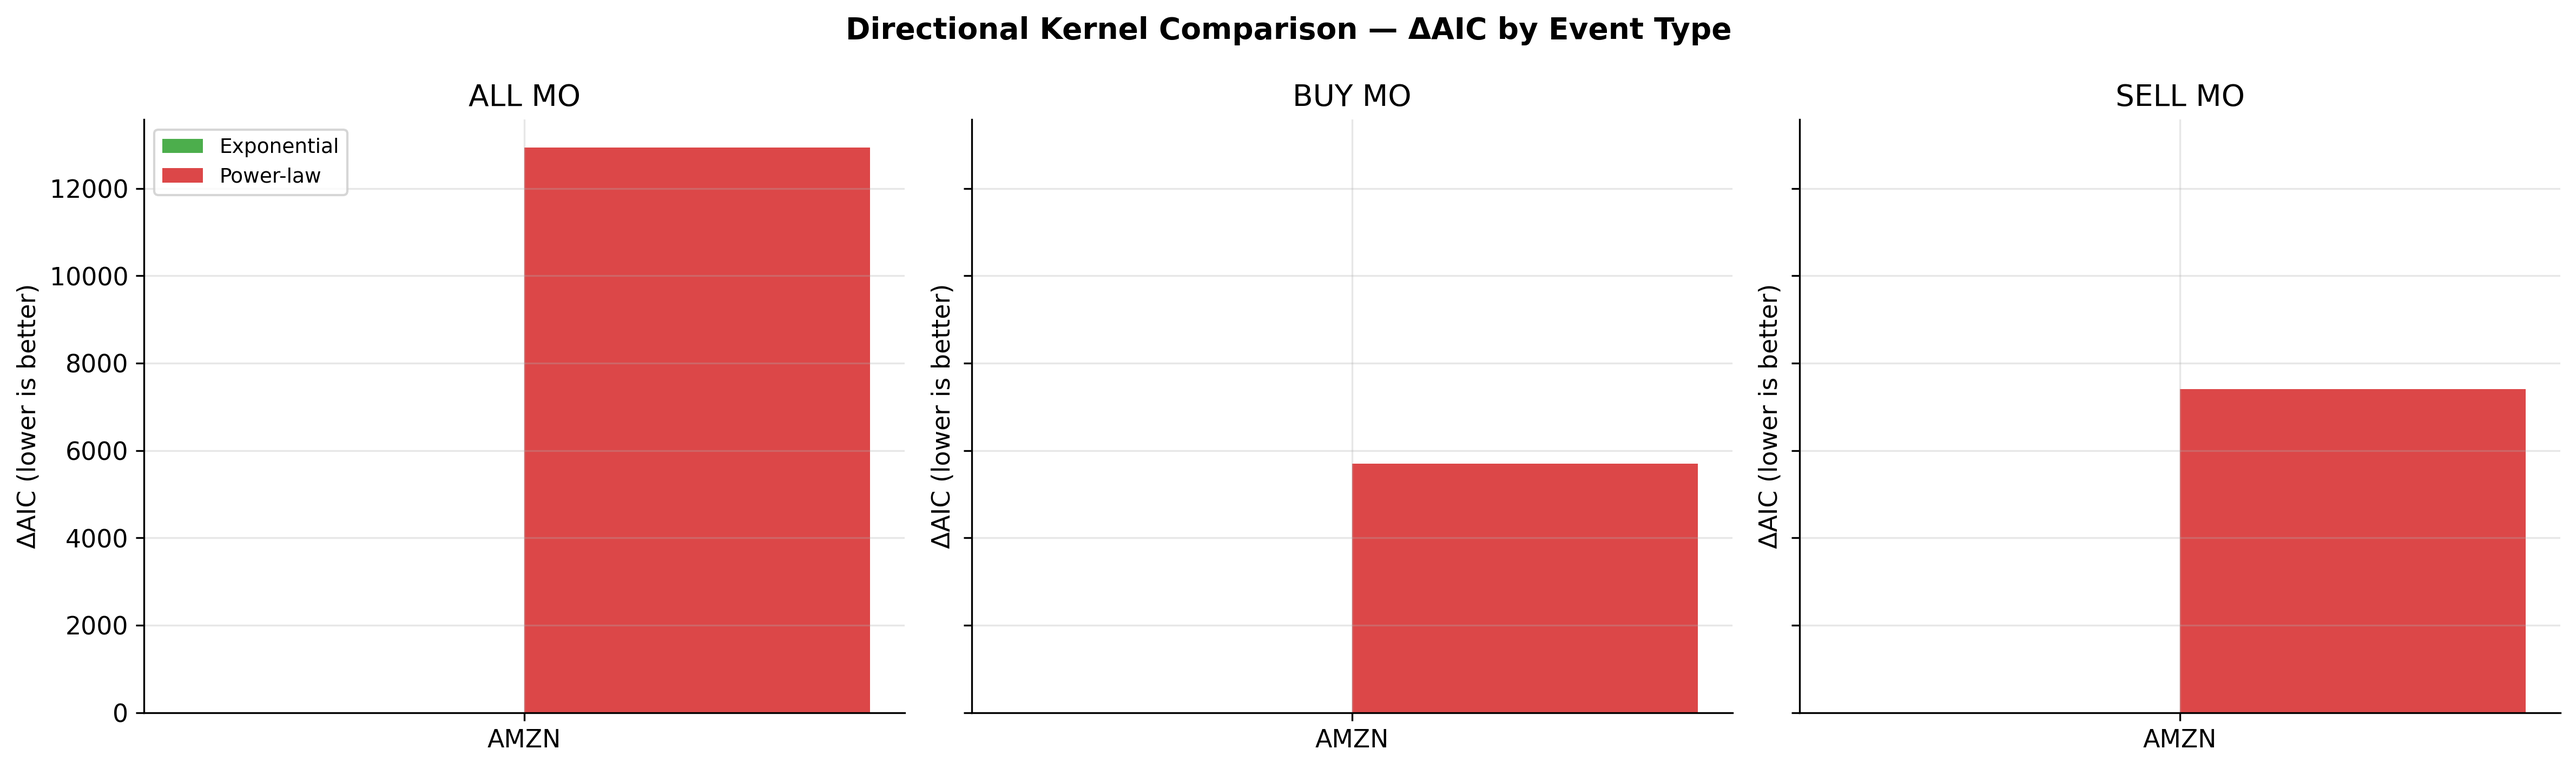
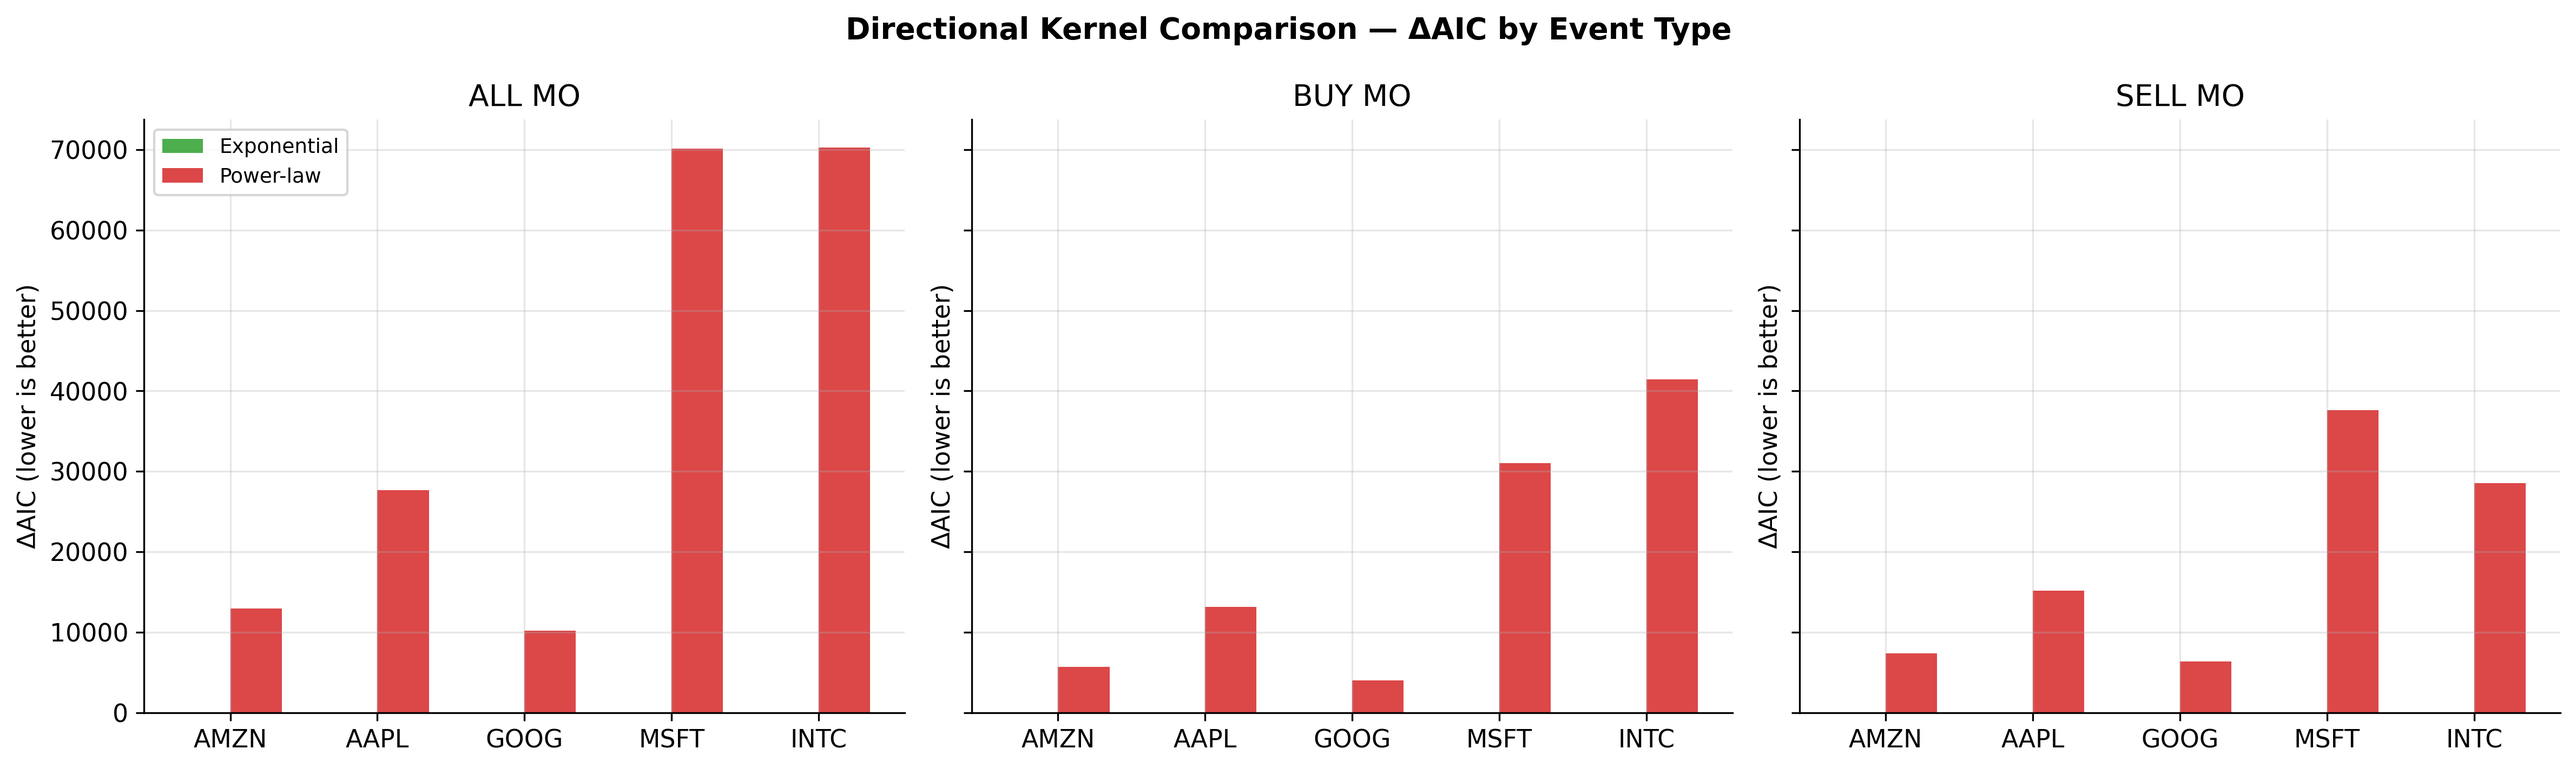
experiment 3 plote add

diff --git a/experiment_3.py b/experiment_3.py
@@ -832,4 +832,5 @@ def run_experiment3_directional(tickers=None, start=START_DATE, end=END_DATE, da
     return results
 
 if __name__ == "__main__":
-    results = run_experiment3_directional(tickers=["AMZN"])
+    results = run_experiment3_directional()
+    
